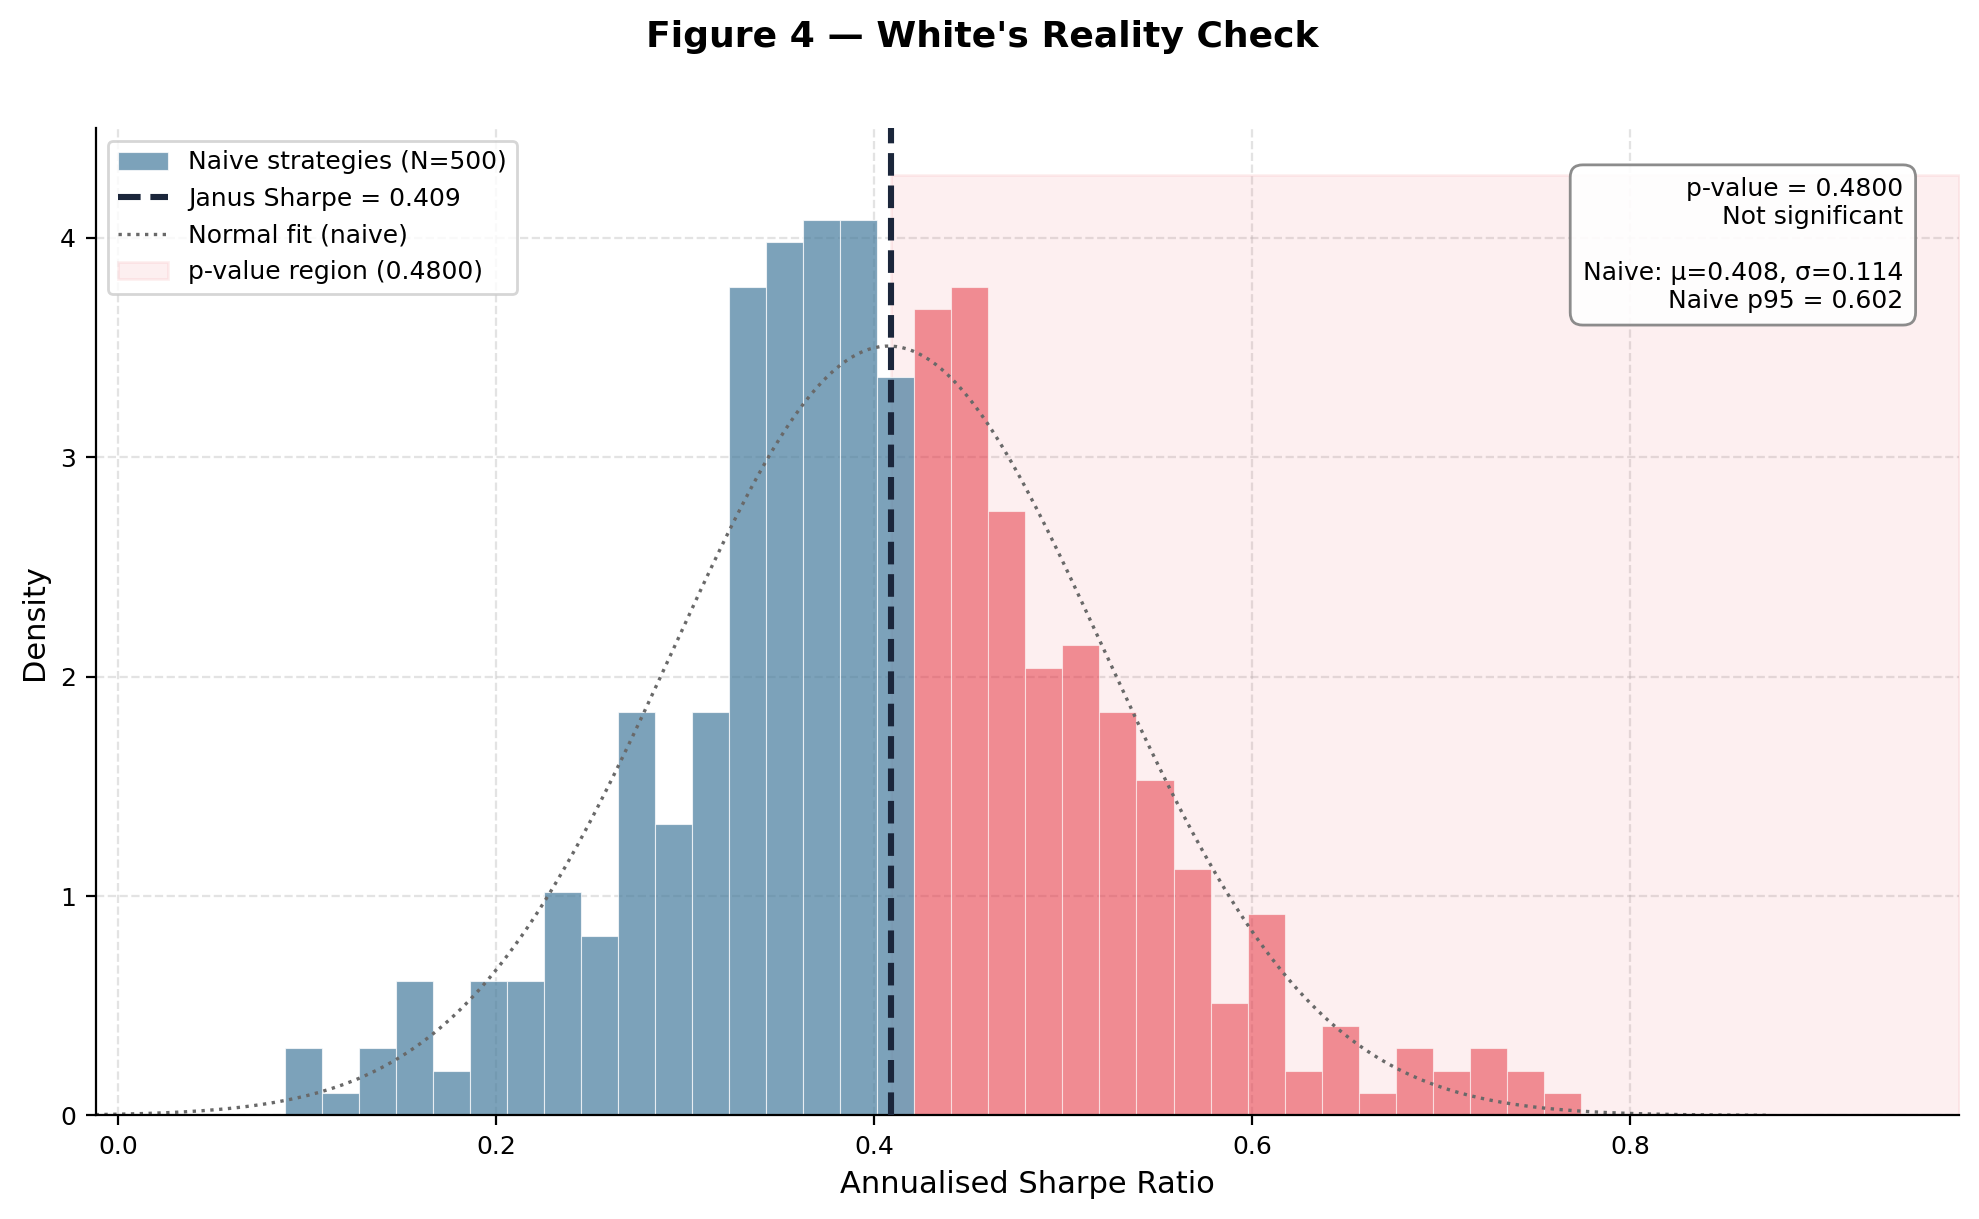
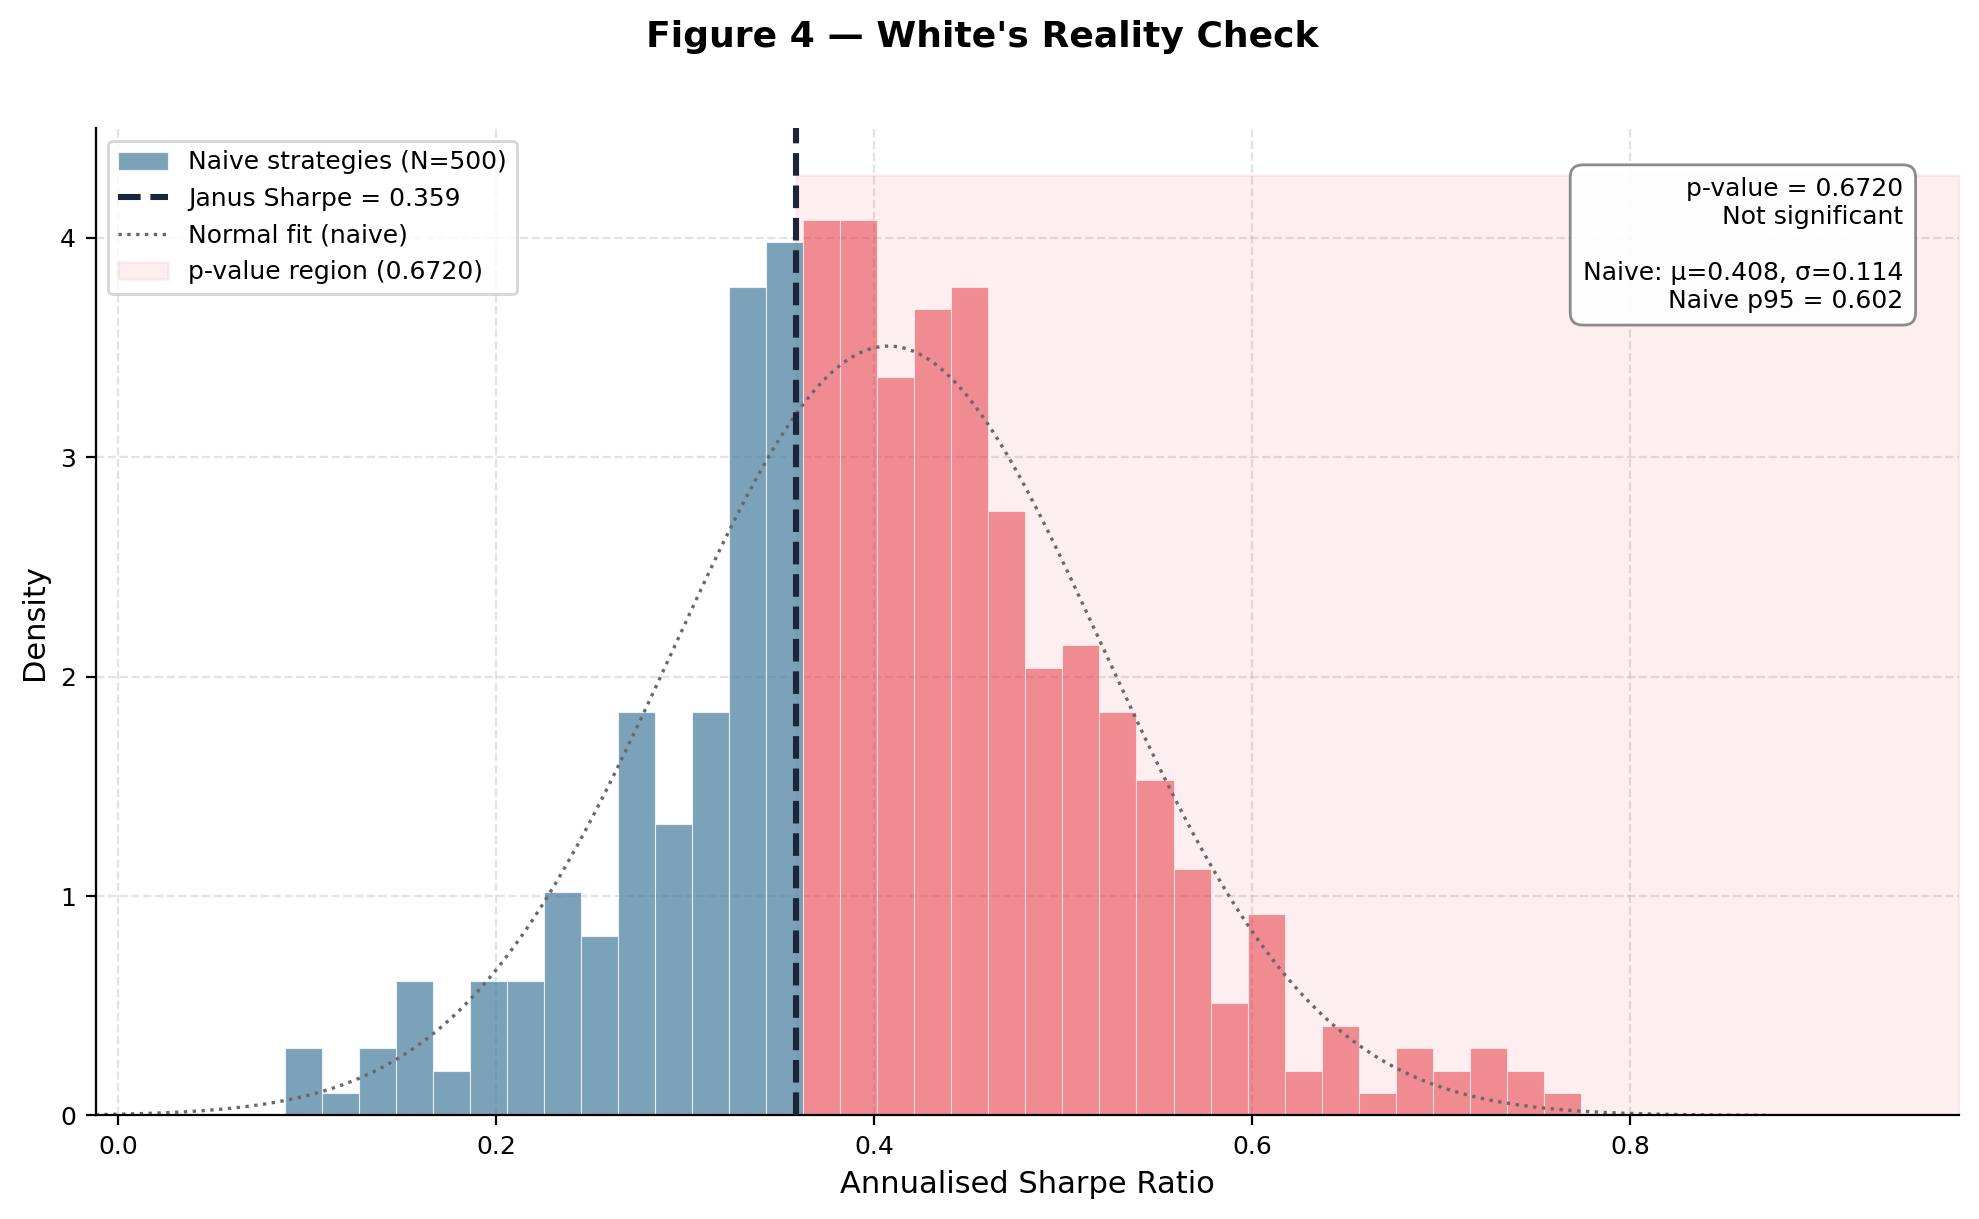
fix: align execution engine with Janus 2.0 Top-5 allocation and synchronize all metrics

Changed region(s): [[0.4007, 0.1247, 0.4624, 0.9352], [0.9247, 0.1247, 0.9555, 0.1559]]

diff --git a/janus_rotational/execution/ladder.py b/janus_rotational/execution/ladder.py
@@ -254,12 +254,18 @@ class LadderEngine:
 
     @staticmethod
     def _tickers(sel_row: pd.Series) -> list[str]:
-        """Extract non-null rank_1/2/3 tickers from a selection row."""
-        return [
-            sel_row[f"rank_{i}"]
-            for i in range(1, 4)
-            if pd.notna(sel_row.get(f"rank_{i}"))
-        ]
+        """Extract all non-null rank_i tickers from a selection row."""
+        tickers = []
+        i = 1
+        while True:
+            col = f"rank_{i}"
+            if col not in sel_row.index:
+                break
+            tkr = sel_row[col]
+            if pd.notna(tkr):
+                tickers.append(tkr)
+            i += 1
+        return tickers
 
     def _daily_row(
         self,

diff --git a/README.md b/README.md
@@ -68,10 +68,10 @@ Summary of strategy performance across the total 20-year dataset and partitioned
 
 | Metric | Janus System (Full) | GFC (05-10) | Bull (11-19) | Modern (20-24) | SPY (Full) | 60/40 (Full) |
 | :--- | :---: | :---: | :---: | :---: | :---: | :---: |
-| **CAGR** | **+8.43%** | **+14.39%** | +6.29% | +3.70% | +10.39% | +7.39% |
-| **Sharpe Ratio** | **0.444** | **0.781** | 0.354 | 0.198 | 0.507 | 0.505 |
-| **Max Drawdown** | **-34.12%** | **-15.54%** | -22.05% | -26.24% | -55.19% | -31.11% |
-| **White's RC (p)** | **0.340** | **0.052** | 0.612 | 0.620 | -- | -- |
+| **CAGR** | **+6.53%** | **+9.83%** | +6.98% | +2.75% | +10.34% | +7.39% |
+| **Sharpe Ratio** | **0.342** | **0.530** | 0.409 | 0.122 | 0.507 | 0.485 |
+| **Max Drawdown** | **-51.94%** | **-20.71%** | -23.14% | -27.06% | -55.19% | -35.97% |
+| **White's RC (p)** | **0.672** | **0.256** | 0.534 | 0.816 | -- | -- |
 
 *Detailed breakdowns and visual reports for each regime are available in the `/plots` subdirectories.*
 
@@ -118,22 +118,11 @@ The system is modularized into steps for transparency:
 
 ---
 
-| Metric | Janus System (Full) | GFC (05-10) | Bull (11-19) | Modern (20-24) | SPY (Full) | 60/40 (Full) |
-| :--- | :---: | :---: | :---: | :---: | :---: | :---: |
-| **CAGR** | **+8.43%** | **+14.39%** | +6.29% | +3.70% | +10.39% | +7.39% |
-| **Sharpe Ratio** | **0.444** | **0.781** | 0.354 | 0.198 | 0.507 | 0.505 |
-| **Max Drawdown** | **-34.12%** | **-15.54%** | -22.05% | -26.24% | -55.19% | -31.11% |
-| **White's RC (p)** | **0.340** | **0.052** | 0.612 | 0.620 | -- | -- |
-
----
-
----
-
 ## 🏛 Market Regime Insights
 
 The system's performance is structurally different across market epochs:
 
-### 1. **GFC & Recovery (2005–2010)**: The primary alpha generator. Effectively navigated the 2008 crash with a **14.39% CAGR**.
+### 1. **GFC & Recovery (2005–2010)**: The primary alpha generator. Effectively navigated the 2008 crash with a **9.83% CAGR**.
 - **Figure 5**: SPY Price & Macro Regime (GFC)
 - **Figure 6**: Capital Allocation (GFC)
 - **Figure 7**: Equity Curves & Drawdown (GFC)
